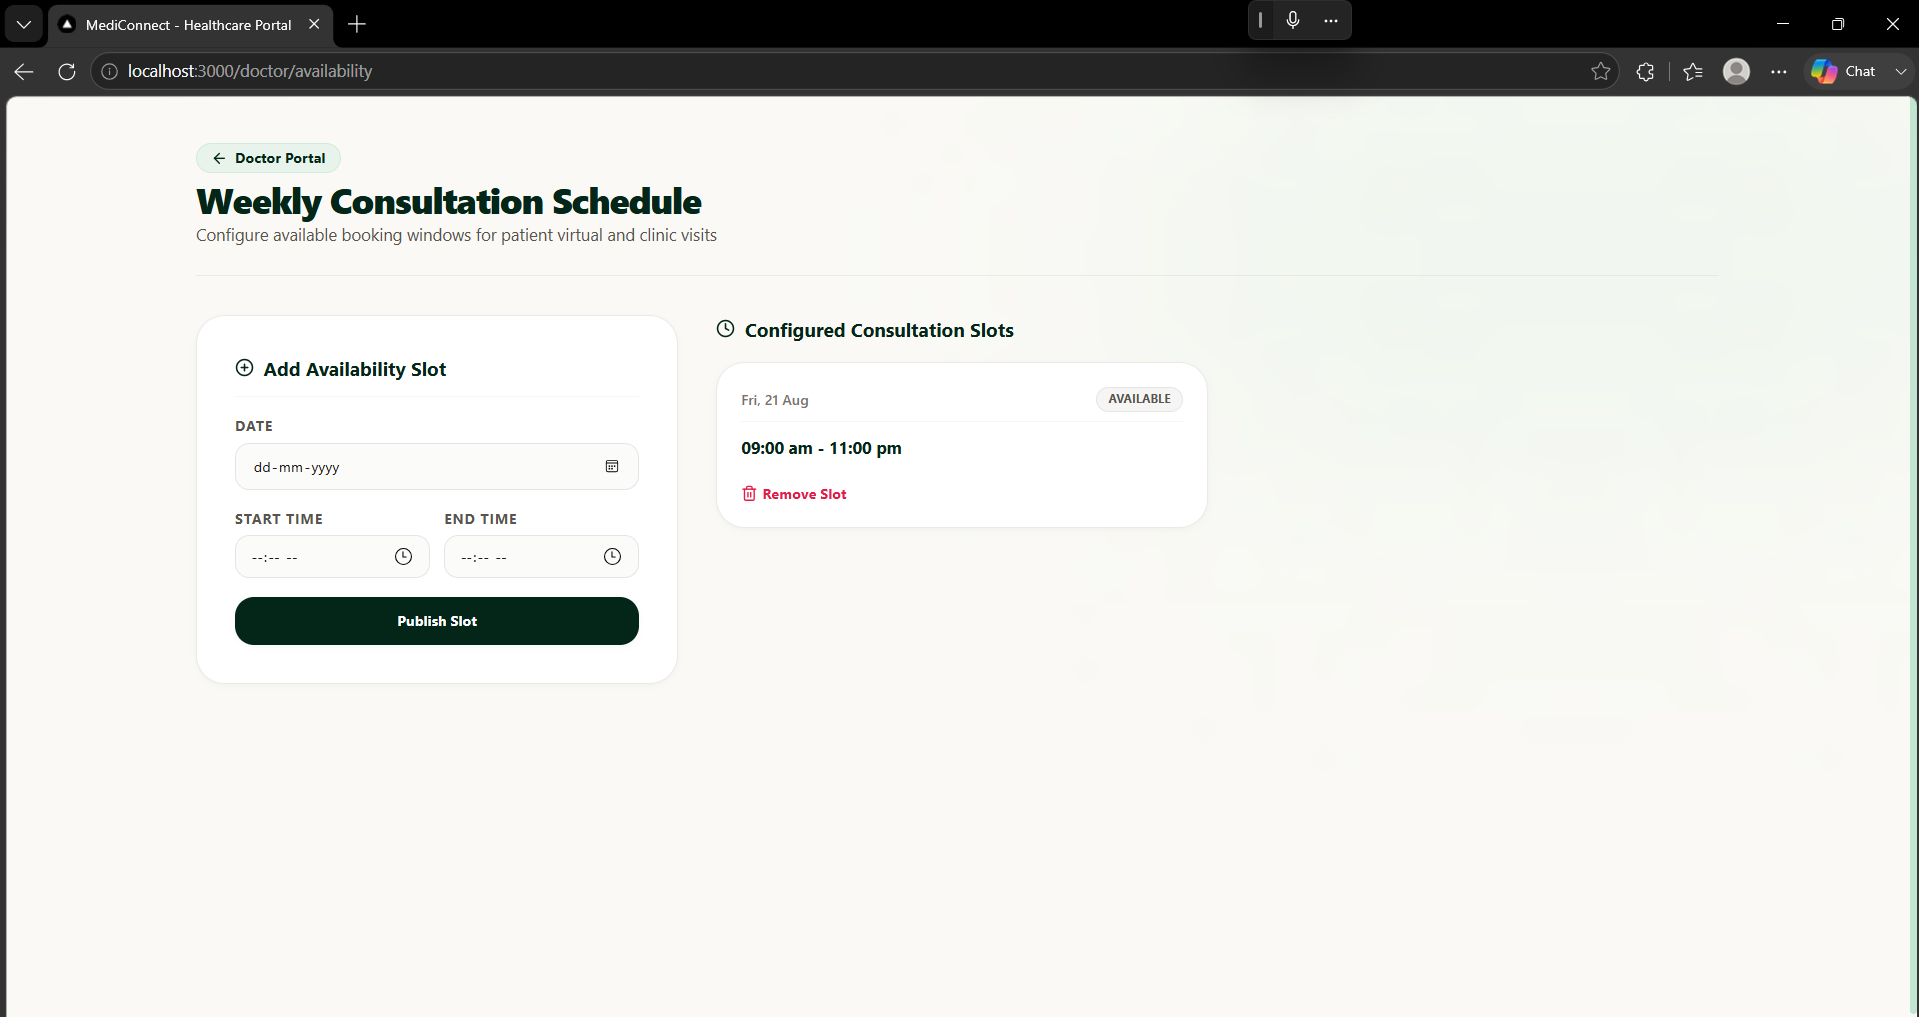
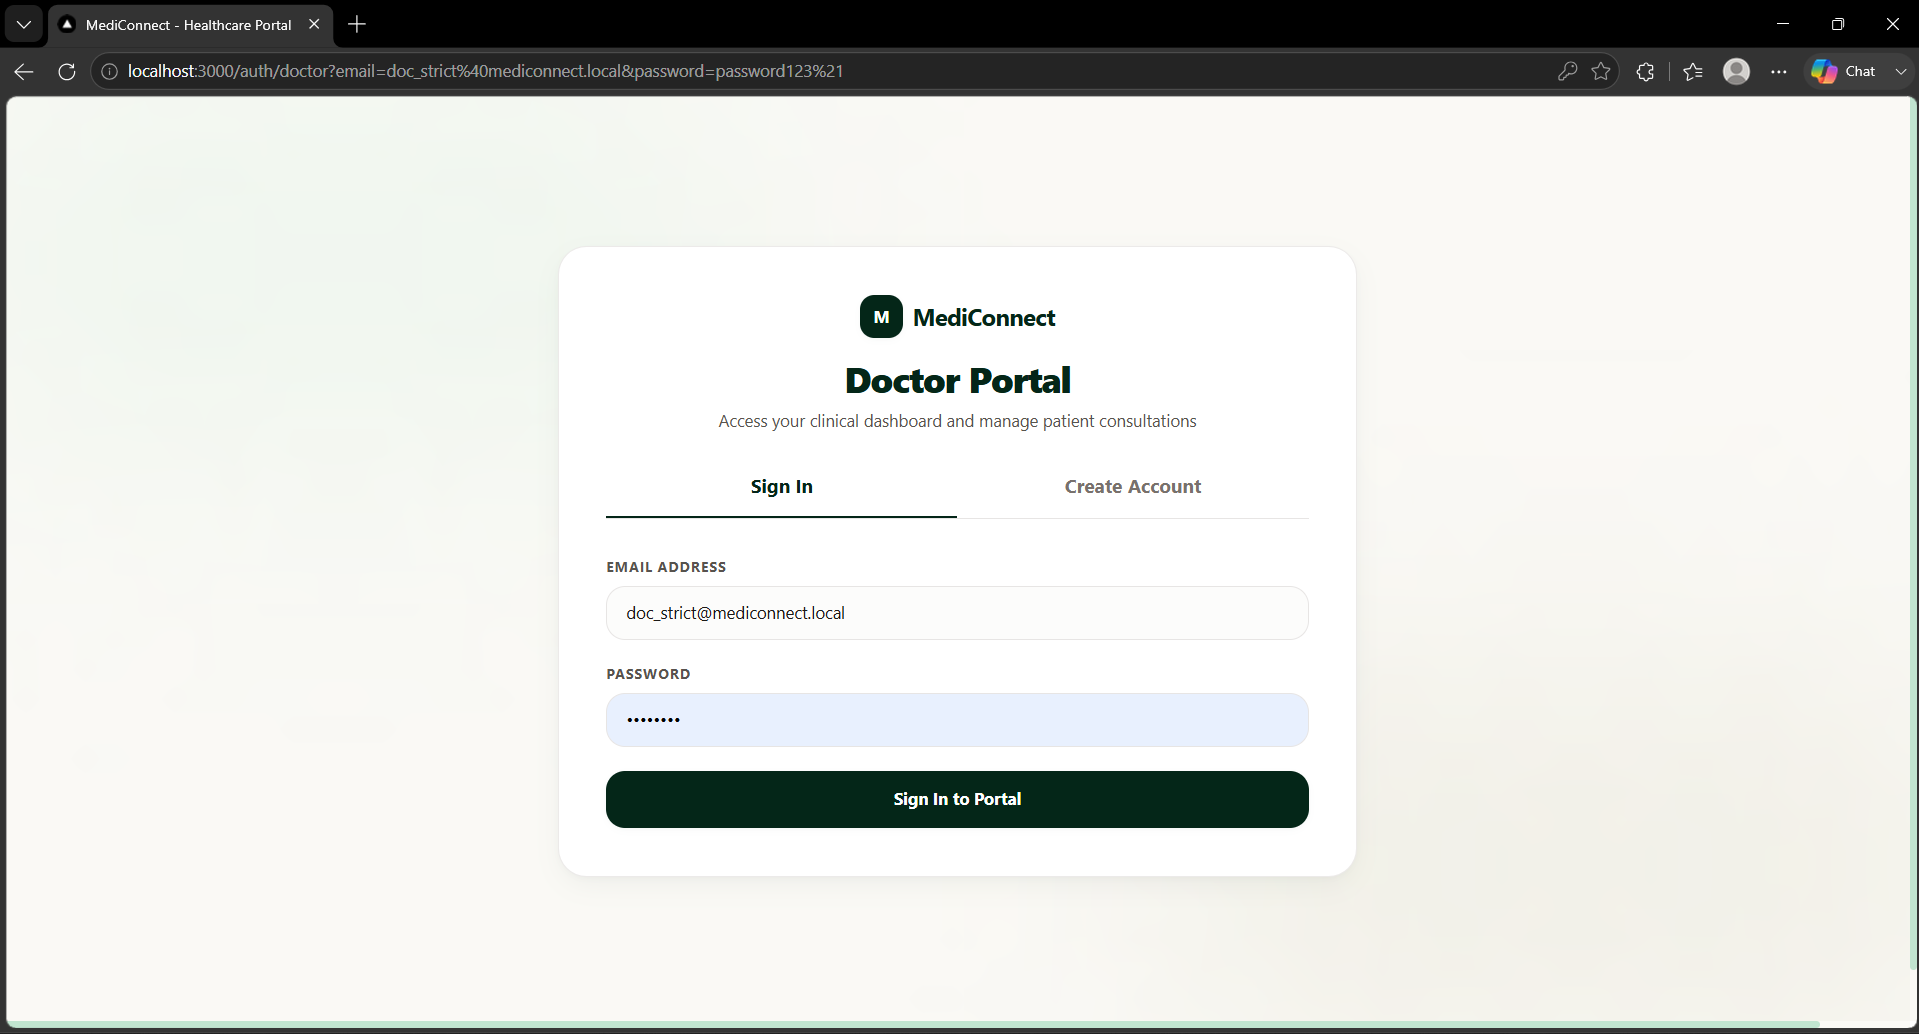
fix(auth): add method=POST to auth forms

diff --git a/app/auth/patient/page.tsx b/app/auth/patient/page.tsx
@@ -170,7 +170,7 @@ export default function PatientAuthPage() {
 
         {/* Forms */}
         {activeTab === "login" ? (
-          <form onSubmit={handleLoginSubmit(onLogin)} className="space-y-5">
+          <form method="POST" onSubmit={handleLoginSubmit(onLogin)} className="space-y-5">
             <div>
               <label className="block text-xs font-bold uppercase tracking-wider text-stone-600 mb-2">
                 Email Address

diff --git a/app/auth/doctor/page.tsx b/app/auth/doctor/page.tsx
@@ -169,7 +169,7 @@ export default function DoctorAuthPage() {
 
         {/* Forms */}
         {activeTab === "login" ? (
-          <form onSubmit={handleLoginSubmit(onLogin)} className="space-y-5">
+          <form method="POST" onSubmit={handleLoginSubmit(onLogin)} className="space-y-5">
             <div>
               <label className="block text-xs font-bold uppercase tracking-wider text-stone-600 mb-2">
                 Email Address
